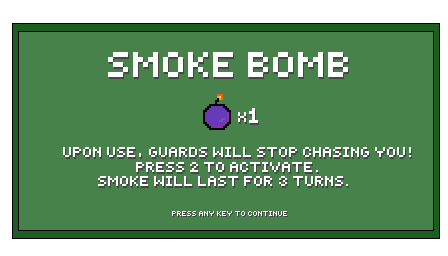
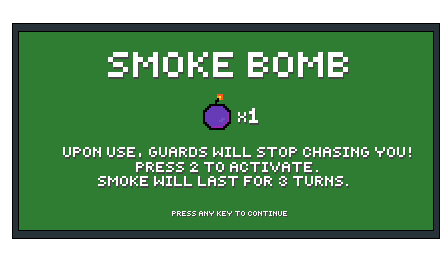
POP UPS ADDED

diff --git a/intheshadows/print.py b/intheshadows/print.py
@@ -1,17 +1,14 @@
 import pygame
 from pathlib import Path
 
+
 def display_item(width, height, screen, water, smoke):
-    # background = pygame.image.load(Path(__file__).parent / "assets/graphics/Backgrounds/hud_background.png")
-    # background = pygame.transform.scale(background, (width // 2, height // 2))
-    # font = pygame.font.Font(Path(__file__).parent / 'assets/fonts/Minecraftia-Regular.ttf', int(height // 2 * 0.05))
-    # screen.help_surface.blit(background, (0, 0))
     if water:
-        background = pygame.image.load(Path(__file__).parent / "assets/graphics/Level Elements/water_flask.png")
+        background = pygame.image.load(Path(__file__).parent / "assets/graphics/Backgrounds/flask_popup.png")
         background = pygame.transform.scale(background, (width // 2, height // 2))
         screen.help_surface.blit(background, (0, 0))
     elif smoke:
-        background = pygame.image.load(Path(__file__).parent / "assets/graphics/Level Elements/smoke_bomb.png")
+        background = pygame.image.load(Path(__file__).parent / "assets/graphics/Backgrounds/smoke_popup.png")
         background = pygame.transform.scale(background, (width // 2, height // 2))
         screen.help_surface.blit(background, (0, 0))
 

diff --git a/intheshadows/board.py b/intheshadows/board.py
@@ -162,7 +162,7 @@ class Board:
         self.__orig_tiles = []
 
     # pass in more parameters like a list of items a player has to display on the HUD
-    def display_hud(self, player):
+    def display_hud(self, player, chase):
         self.__screen.background_surface.fill((0, 0, 0), pygame.Rect(0, self.__screen_height,
                                                                      self.__screen_width, 128))
         hud_background = pygame.image.load(Path(__file__).parent / "assets/graphics/Backgrounds/hud_background.png")
@@ -205,6 +205,9 @@ class Board:
                 instructions = text_font.render('COLLECT THE TREASURE!', True, white)
             else:
                 instructions = text_font.render('ESCAPE TO THE NEXT LEVEL!', True, white)
+
+        if chase:
+            instructions = text_font.render('YOU HAVE BEEN SPOTTED! RUN AWAY!', True, (255, 255, 255))
 
         instructions_rect = instructions.get_rect()
         (instructions_width, instructions_height) = (self.__screen_width - 0.01 * self.__screen_width - instructions_rect.width, status_height)

diff --git a/intheshadows/game.py b/intheshadows/game.py
@@ -1009,7 +1009,7 @@ class Game:
     # Runs the actual game
     def __run_game(self):
         self.__board.draw_level()
-        self.__board.display_hud(self.__player)
+        self.__board.display_hud(self.__player, self.__guard_tracking)
         self.__player.draw()
         self.__draw_guards()
         if self.__check_game_over(self.__player.position()):
